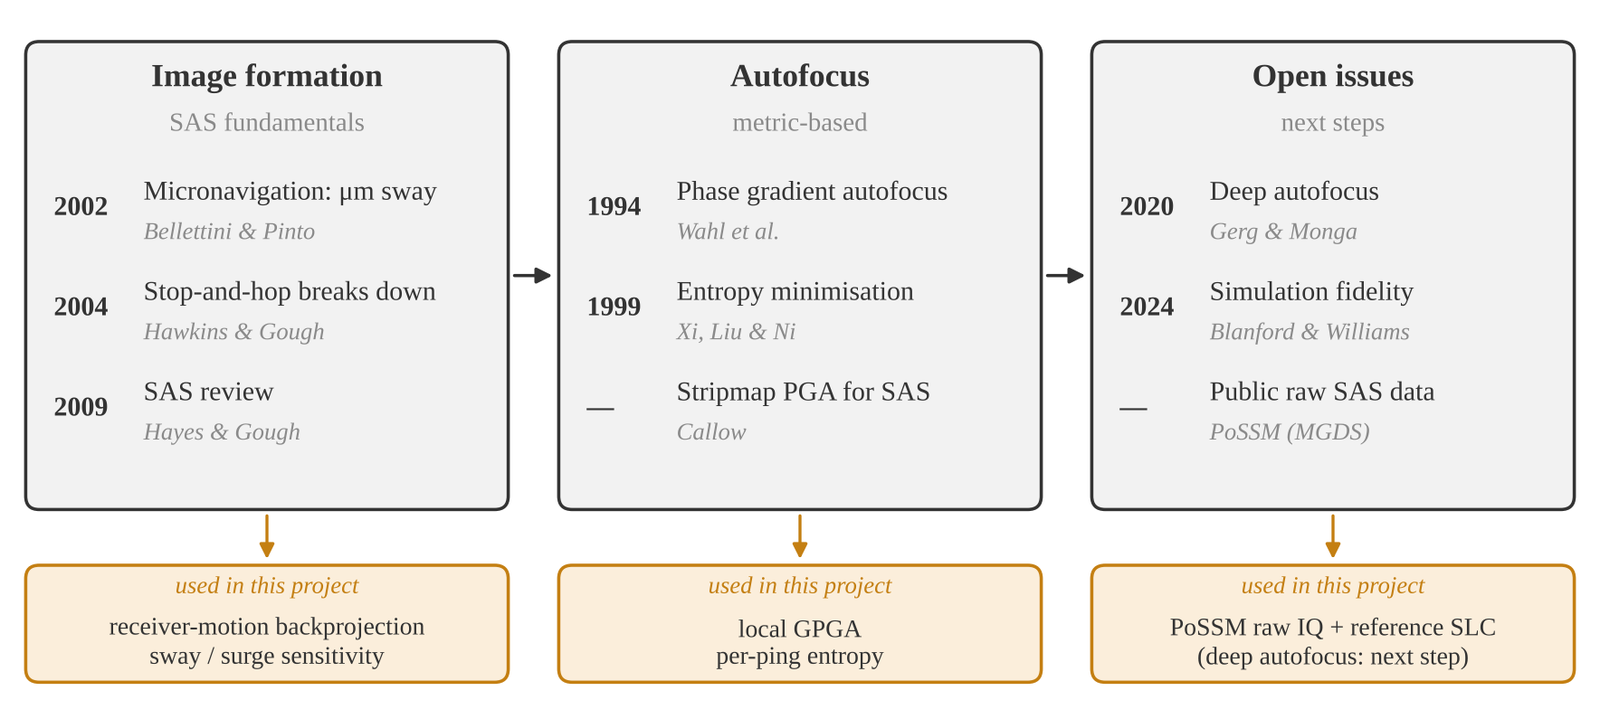
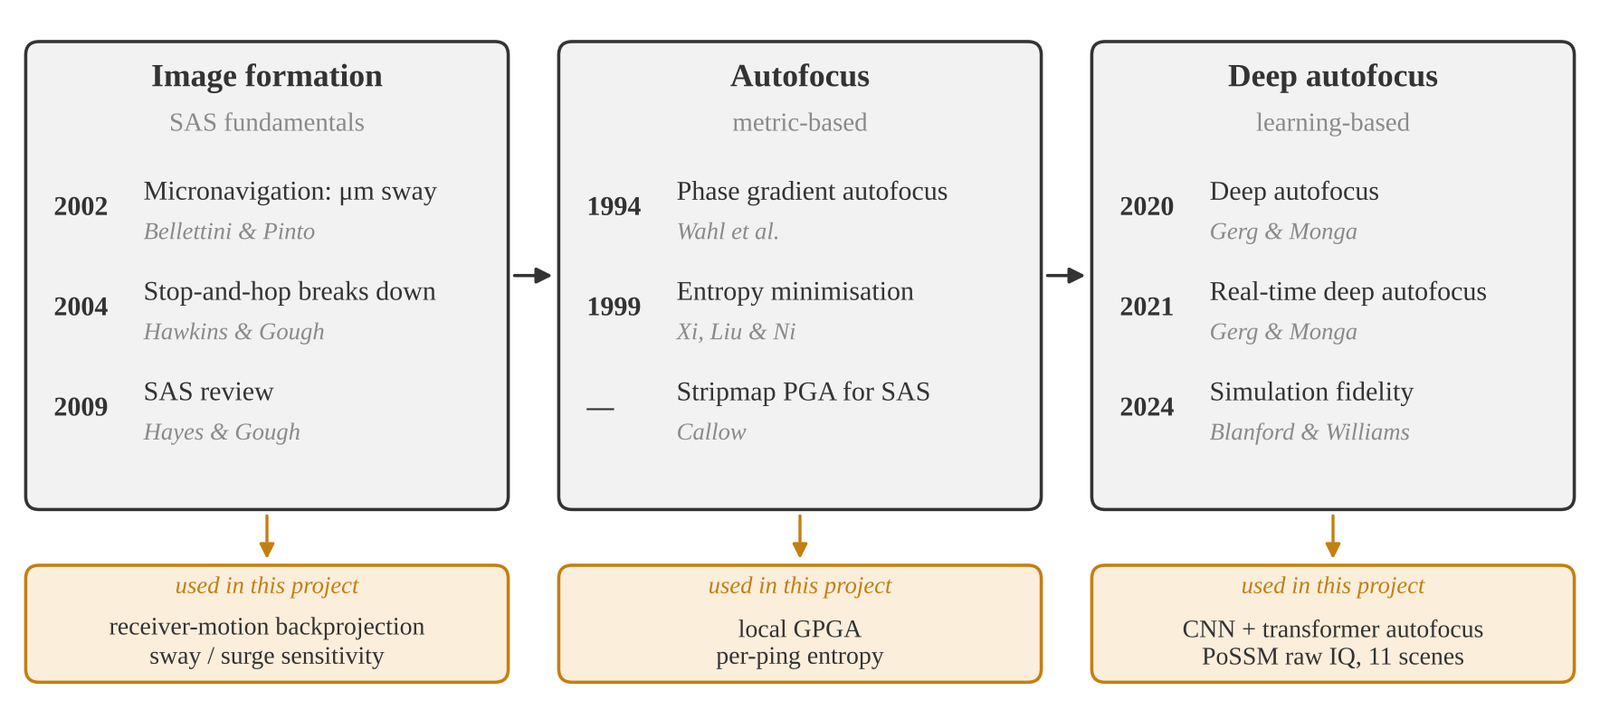
SAS post: deep autofocus results and registered-NCC re-analysis

diff --git a/src/content/projects/sas-signal-processing/index.md b/src/content/projects/sas-signal-processing/index.md
@@ -2,30 +2,31 @@
 # 프로젝트 글입니다. 본문은 일반 Markdown입니다.
 # 그림: 같은 폴더에 이미지를 넣고 ![대체 텍스트](./파일.png "캡션") 형식으로 씁니다.
 title: "Synthetic Aperture Sonar Imaging and Navigation-Error Sensitivity"
-subtitle: "공개 SAS 시뮬레이션 원시 신호로 영상 형성 · 항법 오차 보정을 구현하고 기준 영상으로 검증한 벤치마크"
+subtitle: "공개 SAS 시뮬레이션 원시 신호로 영상 형성 · 항법 오차 보정을 구현하고, 딥러닝 보정과 기존 방법을 기준 영상으로 비교한 벤치마크"
 kind: "능동 소나 · 원시 신호"
 order: 3
-summary: "원시 신호부터 역투영 영상까지 직접 구현하고, 항법 오차가 영상에 주는 영향과 지표 기반 보정의 효과를 기준 영상으로 측정했습니다."
-result: "수신기 이동 보상으로 위치 오차 15.1 → 1.8 mm. 좌우 2 mm 항법 오차만으로 영상 일치도 0.50, 보정은 근거리 0.98까지 회복하나 거리가 멀수록 감소."
+summary: "원시 신호부터 역투영 영상까지 직접 구현하고, 항법 오차가 영상에 주는 영향과 지표 기반 · 딥러닝 보정의 효과를 기준 영상으로 측정했습니다."
+result: "수신기 이동 보상으로 위치 오차 15.1 → 1.8 mm. 좌우 2 mm 항법 오차만으로 영상 일치도 0.50. 해저면 딥러닝 보정은 엔트로피와 같은 정확도(0.93 vs 0.94)를 절반 시간에 냄."
 repo: "https://github.com/jongchan-joseph-lee/SAS_signal_processing"
 cover: "./sas_scene_comparison.png"
 coverAlt: "기준 영상, 직접 만든 역투영 영상, 항법 오차를 넣은 영상 비교"
 updated: 2026-11-10
 ---
 
-공개 합성개구 소나(SAS) 시뮬레이션의 원시 신호로 영상 형성과 항법 오차 보정을 직접 구현하고, 기준 영상과 비교해 항법 오차의 영향을 측정한 벤치마크
+공개 합성개구 소나(SAS) 시뮬레이션의 원시 신호로 영상 형성과 항법 오차 보정을 직접 구현하고, 기준 영상과 비교해 항법 오차의 영향과 딥러닝 보정(deep autofocus)의 효과를 측정한 벤치마크
 
 ![Provided ASASIN SLC, own backprojection, and own backprojection with 2 mm sway error](./sas_scene_comparison.png "기준 영상(ASASIN SLC) · 직접 만든 역투영 영상 · 좌우 2 mm 항법 오차")
 
 ## Background
 
-![Background timeline](./sas_research_background.png "영상 형성 → 지표 기반 보정 → 남은 과제, 그리고 이 벤치마크에서 쓴 방법")
+![Background timeline](./sas_research_background.png "영상 형성 → 지표 기반 보정 → 딥러닝 보정, 그리고 이 벤치마크에서 쓴 방법")
 
 | 영상 형성의 전제 | 근거 |
 |---|---|
 | 정지 가정은 저속 · 짧은 펄스에서만 성립 | Hawkins & Gough (2004) |
 | 핑 간 좌우 위치를 수십 μm 수준으로 알아야 함 | Bellettini & Pinto (2002) |
 | 위상 오차는 PGA · 엔트로피 최소화로 보정 | Wahl 등 (1994) · Xi, Liu & Ni (1999) |
+| 흐린 영상에서 위상 오차를 바로 추정하는 딥러닝 보정 | Gerg & Monga (2020; 2021) |
 
 ## Benchmark Setup
 
@@ -34,9 +35,10 @@ updated: 2026-11-10
 | 자료 | PoSSM (MGDS) · 11장면 · 원시 IQ + 기준 영상 · 무잡음 시뮬레이션 |
 | 영상 형성 | 정합필터 → 송수신 분리 역투영, 정지 가정 vs 수신기 이동 반영 |
 | 항법 오차 | 처리용 항적에 진행 · 좌우 오차와 음속 편향을 넣어 민감도 측정 |
-| 보정 | local GPGA · 핑별 엔트로피 최소화 |
-| 지표 | 산란체 위치 오차(mm) · 기준 영상과의 복소 상관(NCC) |
-| 평가 규칙 | 개발용 자료로 조건 · 기준을 정한 뒤 시험 자료로 1회 평가 |
+| 보정 | local GPGA · 핑별 엔트로피 최소화 · 딥러닝 보정(CNN + transformer) |
+| 딥러닝 보정 자료 | 해저면 0.4 m 조각 · 학습 4장면 → 검증 2장면 → 시험 4장면 (장면 단위 분리) |
+| 지표 | 산란체 위치 오차(mm) · 기준 영상과의 복소 상관(NCC) · 진행 방향 평행이동을 맞춘 NCC(registered NCC) |
+| 평가 규칙 | 개발 · 검증 자료로 조건을 정한 뒤 시험 자료로 1회 평가 |
 
 ## Results
 
@@ -44,8 +46,8 @@ updated: 2026-11-10
 |---|---|
 | 정지 가정 vs 수신기 이동 반영 | 위치 오차 15.1 → 1.8 mm |
 | 항법 오차 민감도 (2 mm RMS) | 좌우 NCC 0.50 · 진행 방향 0.99 |
-| 항법 오차 보정 | NCC 0.442 → 0.830 (사전 기준 0.90) |
-| 거리별 보정 효과 | NCC 0.977 → 0.726 → 0.594 (15–35 · 35–55 · 55–80 m) |
+| 항법 오차 보정, 고립점 (평행이동 정렬 NCC) | 보정 없음 0.741 → GPGA 0.991 · 엔트로피 0.993 (정답 위상 0.993) |
+| 딥러닝 보정, 해저면 시험 500건 | CNN 0.928 · 엔트로피 0.940 (차이 통계적으로 없음) · 처리 시간 약 1/2 |
 
 ### 영상 형성
 
@@ -72,11 +74,39 @@ updated: 2026-11-10
 
 ### 항법 오차 보정
 
-![Autofocus NCC by range band](./sas_autofocus_by_range.png "거리 구간별 항법 오차 보정 결과")
+![Point autofocus NCC by range band, unregistered versus registered](./sas_registered_ncc_reanalysis.png "고립점 시험(24점 × 5경로). 같은 보정 결과에 지표만 다르게 적용")
 
-| 거리 | 15–35 m | 35–55 m | 55–80 m |
+| 엔트로피 보정 | 15–35 m | 35–55 m | 55–80 m |
 |---|---|---|---|
-| 보정 후 NCC | 0.977 | 0.726 | 0.594 |
+| 기존 NCC | 0.977 | 0.726 | 0.594 |
+| 평행이동 정렬 NCC | 0.994 | 0.993 | 0.991 |
+
+- 핑 간 선형 위상 = 진행 방향 평행이동 → 기준 없는 보정으로는 복원 불가
+- 먼 거리 효과 감소는 보정 실패가 아니라 지표에 섞인 평행이동
+
+### 딥러닝 보정 (deep autofocus)
+
+![Deep autofocus model](./sas_deep_autofocus_model.png "모델 구조 (41만 파라미터): 핑별 위상 · 진폭 관계 → CNN → transformer → 위상 갱신, 8회 반복")
+
+| 구분 | 내용 |
+|---|---|
+| 학습 | 거친 해저면 4장면 600조각 · 오차 없는 조각에 핑별 위상 오차 합성 (Gerg & Monga 방식) |
+| 시험 | 학습에 없던 물결 · 혼합 해저면 4장면 · 100조각 × 5경로 · 처리용 항적에 2 mm 좌우 오차 |
+
+![Seabed test results](./sas_deep_autofocus_results.png "시험 4장면 결과: 방법별 분포 · 장면별 중앙값 · 정확도 vs 처리 시간")
+
+| 방법 | NCC 중앙값 | 하위 10% | 오차 없는 입력 손실 | 처리 시간 |
+|---|---|---|---|---|
+| GPGA | 0.752 | 0.563 | 0.144 | 0.6 ms |
+| 엔트로피 | 0.940 | 0.706 | 0.038 | 345 ms |
+| **CNN** | **0.928** | **0.721** | **0.021** | **173 ms** |
+| CNN → 엔트로피 | 0.941 | 0.720 | 0.038 | 296 ms |
+| 정답 위상 | 0.993 | – | 0 | – |
+
+- CNN − 엔트로피: −0.006 (95% CI −0.014–0.002) → 차이 없음, 처리 시간 절반
+- 물결 해저면 scene04: CNN 0.854 vs 엔트로피 0.927 → 학습에 없던 해저 유형에서 약함
+
+![Seabed test patch example](./sas_deep_autofocus_example.png "시험 조각 예시 (scene05): 기준 · 오차 · 엔트로피 · CNN")
 
 <details>
 <summary>부록: 객체 탐지 시도 (사전 기준 미달)</summary>
@@ -97,20 +127,24 @@ updated: 2026-11-10
   → 정지 가정 대비 위치 오차 약 1/8 (15.1 → 1.8 mm). mm급 영상 형성의 전제 조건
 - 항법 오차의 영향\
   → 좌우 방향 mm 단위 오차가 영상 품질을 좌우함. 미세항법 정확도 요구(Bellettini & Pinto, 2002)를 수치로 확인
-- 지표 기반 보정\
-  → 근거리에서는 거의 완전 회복(NCC 0.98), 거리가 멀수록 효과 감소
+- 보정 평가 지표\
+  → 평행이동을 맞춰 비교하면 고립점 보정은 거리와 무관하게 정답 위상 수준
+- 딥러닝 보정\
+  → 해저면에서 엔트로피와 같은 정확도를 약 절반의 처리 시간으로 냄. 정확도 우위는 확인되지 않음
 
 ## Limitations → Next Steps
 
-- 먼 거리(35 m 이상)에서 보정 효과 감소\
-  → 합성개구 길이 · 신호 대 잡음비 · 공간 가변 오차 요인 분리, 스트립맵 PGA(Callow) 방식 비교
-- 지표 기반 보정의 한계 (연산량 · 파라미터 민감도 · 선명도 지표의 국소해)\
-  → 딥러닝 기반 보정(Gerg & Monga, 2020; 2021)과 같은 자료에서 비교
+- 학습에 없던 해저 유형(물결)에서 CNN 성능 저하\
+  → 해저 유형을 섞어 학습, 장면 수 확대
+- 오차 없는 입력도 보정 후 영상이 달라짐\
+  → 오차 크기를 먼저 추정해 보정 여부 결정, 오차 없는 입력의 손실을 학습 목표에 포함
+- 모든 방법이 정답 위상과 0.05 이상 차이\
+  → 큰 조각 · 장면 전체 보정, 공간 가변 오차 추정으로 확장
+- 처리 시간이 CPU 2코어 기준\
+  → GPU 일괄 추론으로 실시간성 평가 (Gerg & Monga, 2021)
 - 무잡음 시뮬레이션 한 종류\
   → 잡음을 넣은 시뮬레이션으로 재평가 후 실측 SAS로 확장. 시뮬레이션 자료의 충실도 문제(Blanford & Williams, 2024) 고려
 - 항법 오차를 원시 신호가 아닌 처리용 항적에 넣어 생성\
   → 원시 신호 단계에서 항법 오차를 넣은 시뮬레이션으로 검증
-- 기준 영상과의 장면 전체 차이 원인 미분리\
-  → 거리별 진폭 규약 · 보간 · 창 처리를 단계별로 분리 비교
 
 [저장소 · 참고문헌](https://github.com/jongchan-joseph-lee/SAS_signal_processing) · [보고서](https://github.com/jongchan-joseph-lee/SAS_signal_processing/blob/main/report_v3/report.html)
